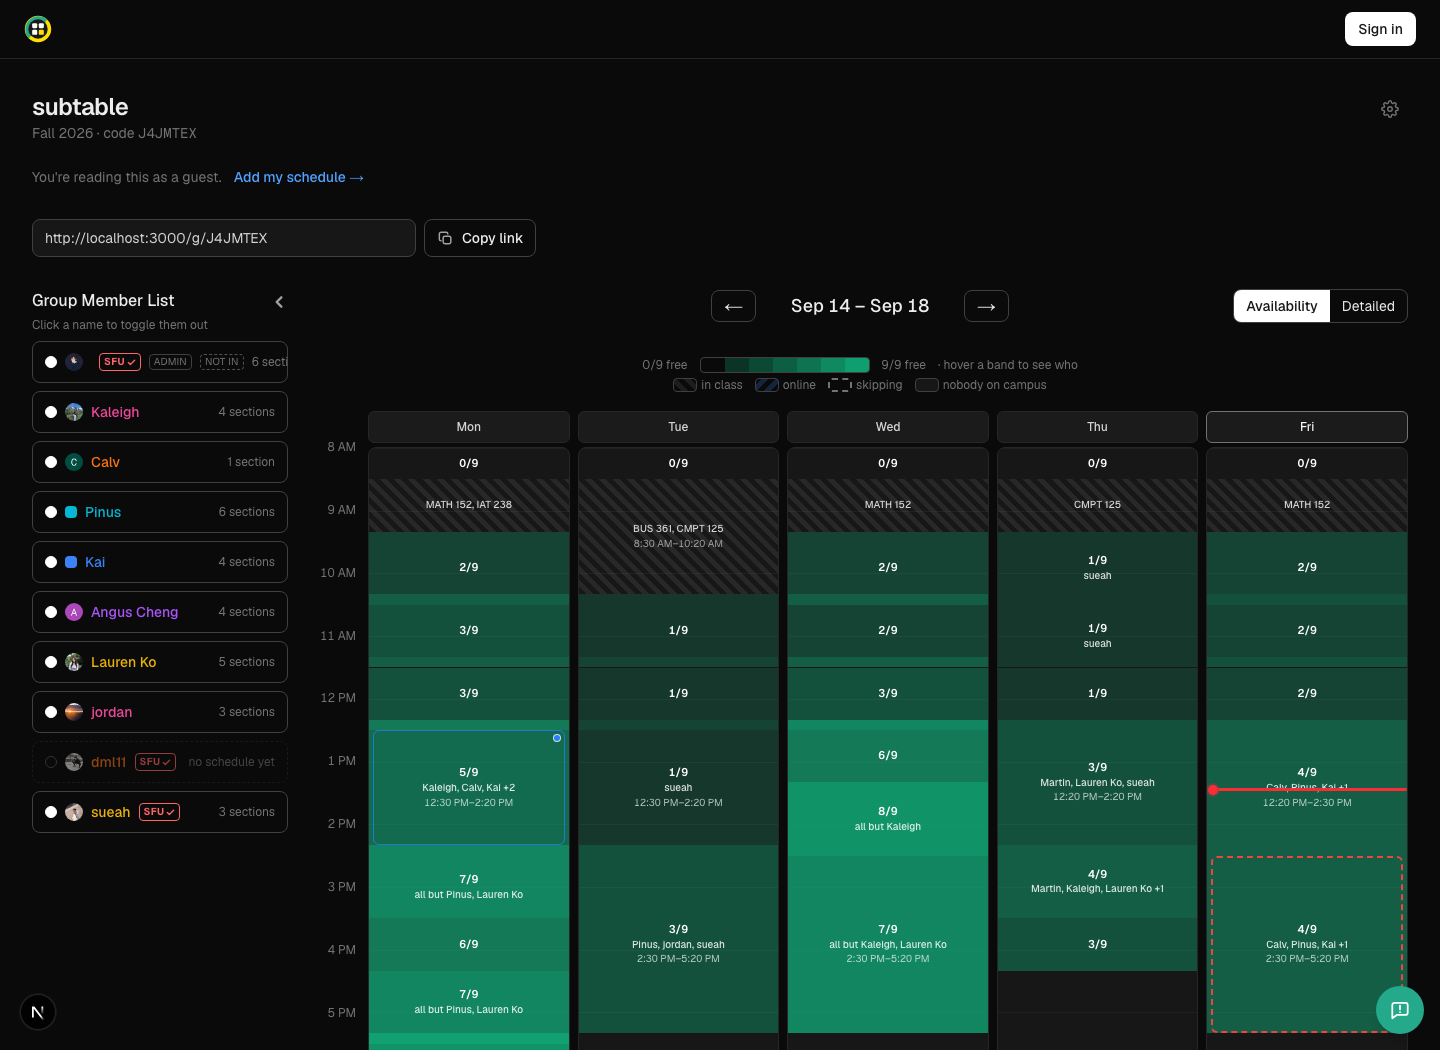
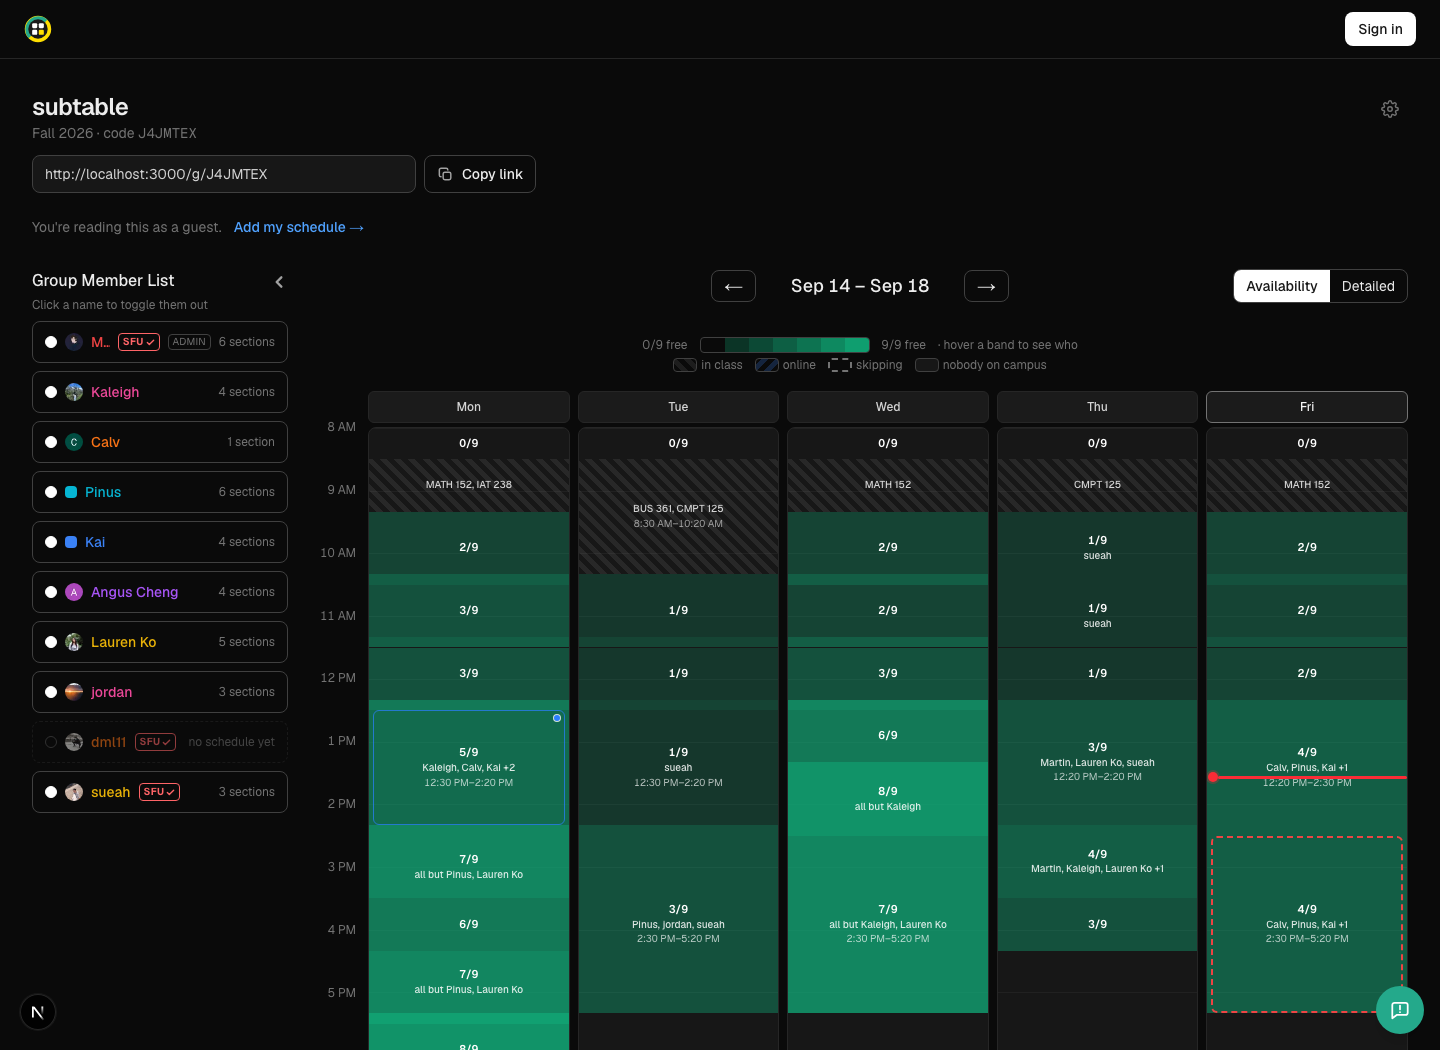
Remove ambiguous skipping badge from member rows

diff --git a/app/g/[code]/page.tsx b/app/g/[code]/page.tsx
@@ -12,7 +12,7 @@ import { InviteLink } from "@/components/InviteLink";
 import { SfuVerifiedBadge } from "@/components/SfuVerifiedBadge";
 import { GroupPageSkeleton } from "@/components/Skeleton";
 import { WeekGrid, type AttendanceControl } from "@/components/WeekGrid";
-import { STATUS_EFFECT, resolveStatus } from "@/lib/attendance-status";
+import { resolveStatus } from "@/lib/attendance-status";
 import { readGuestMember, type GuestMember } from "@/lib/guest-schedule";
 import type { AttendanceRow, AttendanceStatus } from "@/lib/attendance-status";
 import { rememberLastGroup } from "@/lib/last-group";
@@ -671,22 +671,17 @@ function GroupSchedule({ code }: { code: string }) {
                       Admin
                     </span>
                   )}
-                  {/* Their word on the whole of today. Nothing shows for the
-                      ordinary case, so a badge here always means a deviation —
-                      which is the only reason to look. */}
+                  {/* Online today changes campus availability; skipped classes
+                      are already marked by dashed blocks in the grid. */}
                   {todayShown && m.userId !== null && (() => {
                     const { status, note } = resolveStatus(state.attendance, m.userId, today, null);
-                    if (status === "going") return null;
+                    if (status !== "remote") return null;
                     return (
                       <span
-                        title={note ?? `${STATUS_EFFECT[status].label} today`}
-                        className={`shrink-0 rounded border px-1 text-[10px] uppercase tracking-wide ${
-                          status === "remote"
-                            ? "border-blue-300 text-blue-600 dark:border-blue-800 dark:text-blue-400"
-                            : "border-dashed border-neutral-400 text-neutral-500 dark:border-neutral-600"
-                        }`}
+                        title={note ?? "Online today"}
+                        className="shrink-0 rounded border border-blue-300 px-1 text-[10px] uppercase tracking-wide text-blue-600 dark:border-blue-800 dark:text-blue-400"
                       >
-                        {status === "remote" ? "Online" : "Not in"}
+                        Online
                       </span>
                     );
                   })()}
@@ -985,4 +980,3 @@ function GearIcon() {
     </svg>
   );
 }
-
